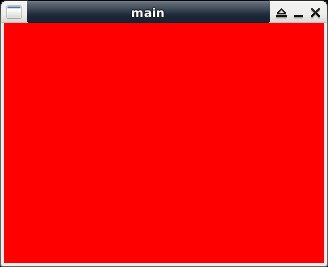
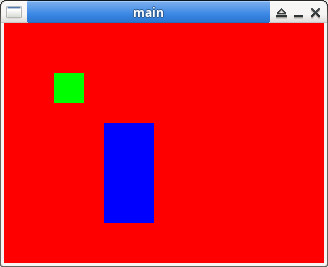
SDL2 Refined.

diff --git a/program/sdl2_cpp_fill.htm b/program/sdl2_cpp_fill.htm
@@ -14,17 +14,18 @@ main.c
 #include &lt;stdio.h&gt;
 #include &lt;stdlib.h&gt;
 #include &lt;SDL.h&gt;
-
+ 
 int main(int argc, char **argv)
 {
     const int w = 320;
     const int h = 240;
     const int bpp = 16;
+    SDL_Rect rt = { 0 };
     SDL_Window *window = NULL;
     SDL_Surface *screen = NULL;
     SDL_Texture *texture = NULL;
     SDL_Renderer *renderer = NULL;
-
+ 
     SDL_Init(SDL_INIT_VIDEO);
     window = SDL_CreateWindow("main", SDL_WINDOWPOS_UNDEFINED, SDL_WINDOWPOS_UNDEFINED, w, h, SDL_WINDOW_SHOWN);
     renderer = SDL_CreateRenderer(window, -1, SDL_RENDERER_ACCELERATED | SDL_RENDERER_PRESENTVSYNC);
@@ -33,13 +34,25 @@ int main(int argc, char **argv)
 
     SDL_FillRect(screen, &amp;screen-&gt;clip_rect, SDL_MapRGB(screen-&gt;format, 0xff, 0x00, 0x00));
 
+    rt.x = 50;
+    rt.y = 50;
+    rt.w = 30;
+    rt.h = 30;
+    SDL_FillRect(screen, &amp;rt, SDL_MapRGB(screen-&gt;format, 0x00, 0xff, 0x00));
+ 
+    rt.x = 100;
+    rt.y = 100;
+    rt.w = 50;
+    rt.h = 100;
+    SDL_FillRect(screen, &amp;rt, SDL_MapRGB(screen-&gt;format, 0x00, 0x00, 0xff));
+ 
     SDL_UpdateTexture(texture, NULL, screen-&gt;pixels, screen-&gt;pitch);
     SDL_RenderClear(renderer);
     SDL_RenderCopy(renderer, texture, NULL, NULL);
     SDL_RenderPresent(renderer);
-
+ 
     SDL_Delay(3000);
-
+ 
     SDL_FreeSurface(screen);
     SDL_DestroyTexture(texture);
     SDL_DestroyRenderer(renderer);
